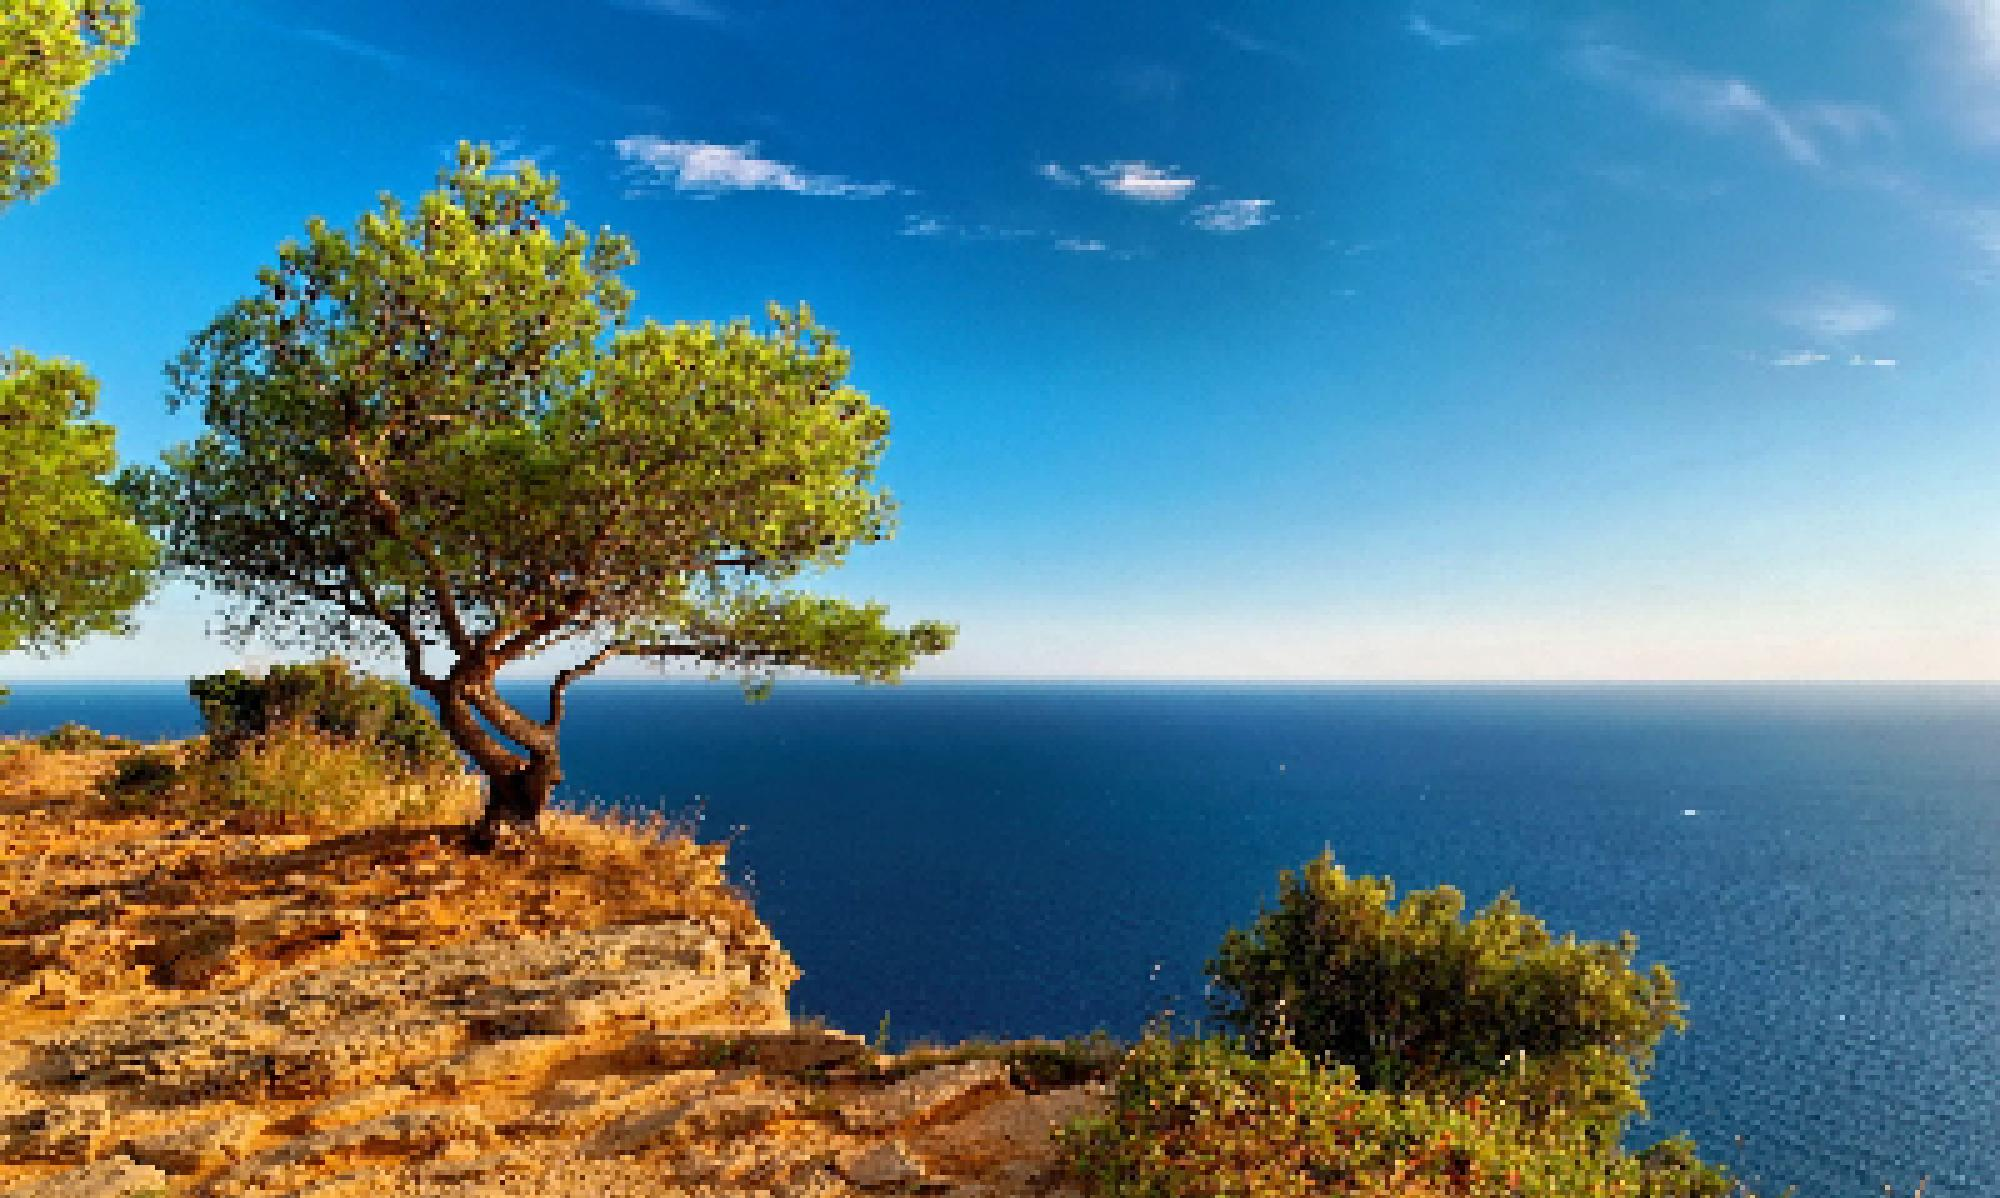
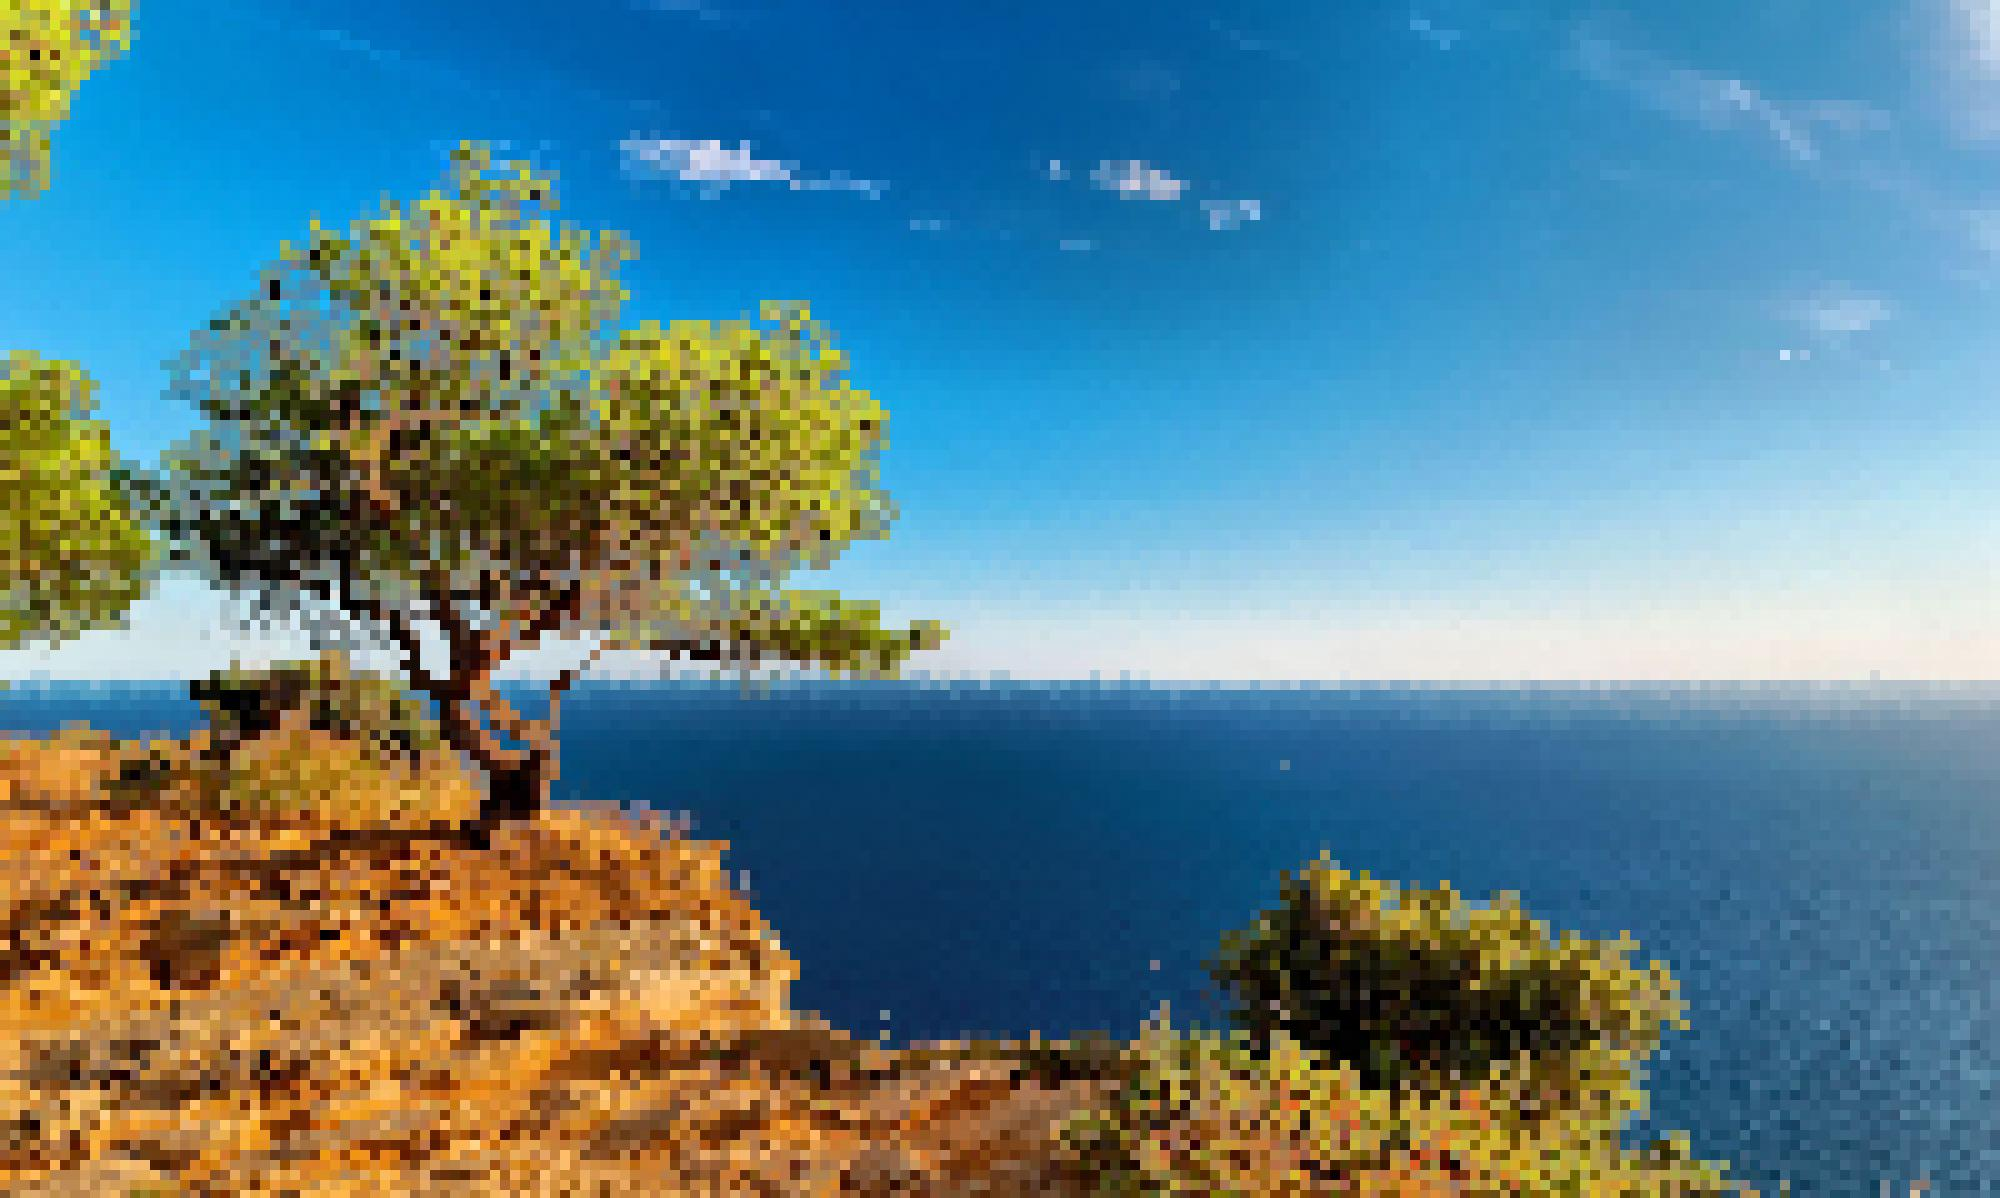
Add the dominant color

diff --git a/src/Pixelisator.java b/src/Pixelisator.java
@@ -1,24 +1,58 @@
+import java.awt.*;
 import java.awt.image.BufferedImage;
-import java.awt.image.Raster;
-import java.awt.image.WritableRaster;
+import java.util.*;
+import java.util.List;
 
-public class Pixelisator {
-    public static WritableRaster pixelise(BufferedImage image,int pixelisation){
-        Raster rasterSrc = image.getData();
-        WritableRaster dest = rasterSrc.createCompatibleWritableRaster();
+public final class Pixelisator {
 
-        for(int y = 0; y < rasterSrc.getHeight(); y += pixelisation) {
-            for(int x = 0; x < rasterSrc.getWidth(); x += pixelisation) {
-                double[] pixel = new double[3];
-                pixel = rasterSrc.getPixel(x, y, pixel);
+    public static BufferedImage pixelate(BufferedImage imageToPixelate, int pixelSize) {
+        BufferedImage pixelateImage = new BufferedImage(
+                imageToPixelate.getWidth(),
+                imageToPixelate.getHeight(),
+                imageToPixelate.getType());
 
-                for(int yd = y; (yd < y + pixelisation) && (yd < dest.getHeight()); yd++) {
-                    for(int xd = x; (xd < x + pixelisation) && (xd < dest.getWidth()); xd++) {
-                        dest.setPixel(xd, yd, pixel);
+        for (int y = 0; y < imageToPixelate.getHeight(); y += pixelSize) {
+            for (int x = 0; x < imageToPixelate.getWidth(); x += pixelSize) {
+                BufferedImage croppedImage = getCroppedImage(imageToPixelate, x, y, pixelSize, pixelSize);
+                Color dominantColor = getDominantColor(croppedImage);
+                for (int yd = y; (yd < y + pixelSize) && (yd < pixelateImage.getHeight()); yd++) {
+                    for (int xd = x; (xd < x + pixelSize) && (xd < pixelateImage.getWidth()); xd++) {
+                        pixelateImage.setRGB(xd, yd, dominantColor.getRGB());
                     }
                 }
             }
         }
-        return dest;
+
+        return pixelateImage;
+    }
+
+    public static BufferedImage getCroppedImage(BufferedImage image, int startx, int starty, int width, int height) {
+        if (startx < 0) startx = 0;
+        if (starty < 0) starty = 0;
+        if (startx > image.getWidth()) startx = image.getWidth();
+        if (starty > image.getHeight()) starty = image.getHeight();
+        if (startx + width > image.getWidth()) width = image.getWidth() - startx;
+        if (starty + height > image.getHeight()) height = image.getHeight() - starty;
+        return image.getSubimage(startx, starty, width, height);
+    }
+
+    public static Color getDominantColor(BufferedImage image) {
+        Map<Integer, Integer> colorCounter = new HashMap<>(100);
+        for (int x = 0; x < image.getWidth(); x++) {
+            for (int y = 0; y < image.getHeight(); y++) {
+                int currentRGB = image.getRGB(x, y);
+                int count = colorCounter.getOrDefault(currentRGB, 0);
+                colorCounter.put(currentRGB, count + 1);
+            }
+        }
+        return getDominantColor(colorCounter);
+    }
+
+    private static Color getDominantColor(Map<Integer, Integer> colorCounter) {
+        int dominantRGB = colorCounter.entrySet().stream()
+                .max((entry1, entry2) -> entry1.getValue() > entry2.getValue() ? 1 : -1)
+                .get()
+                .getKey();
+        return new Color(dominantRGB);
     }
 }

diff --git a/src/Runner.java b/src/Runner.java
@@ -7,12 +7,12 @@ import java.io.IOException;
 
 public class Runner {
     public static void main(String[] args) {
-        int pixelisation = 5;
+        int pixelisation = 10;
         try {
             BufferedImage imageSrc = ImageIO.read(new File("./images/img1.jpg"));
 
-            imageSrc.setData(Pixelisator.pixelise(imageSrc,pixelisation));
-            ImageIO.write(imageSrc, "jpg", new File("./images/image-pixelated.jpg"));
+            BufferedImage dest = Pixelisator.pixelate(imageSrc,pixelisation);
+            ImageIO.write(dest, "jpg", new File("./images/image-pixelated.jpg"));
         } catch (IOException e) {
             System.out.println("RIP");
         }
